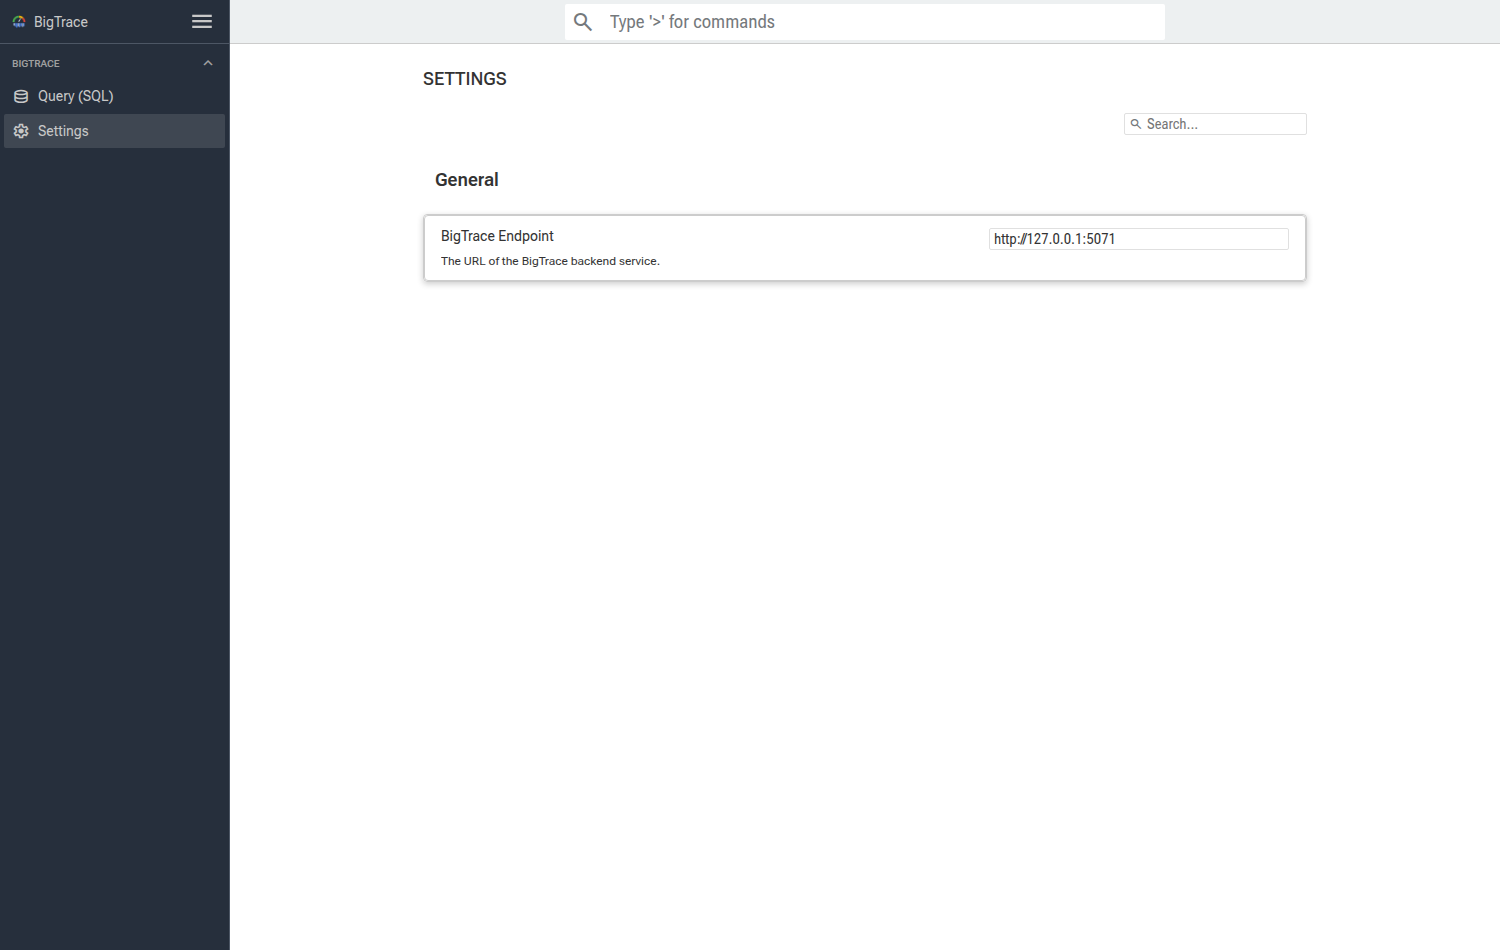
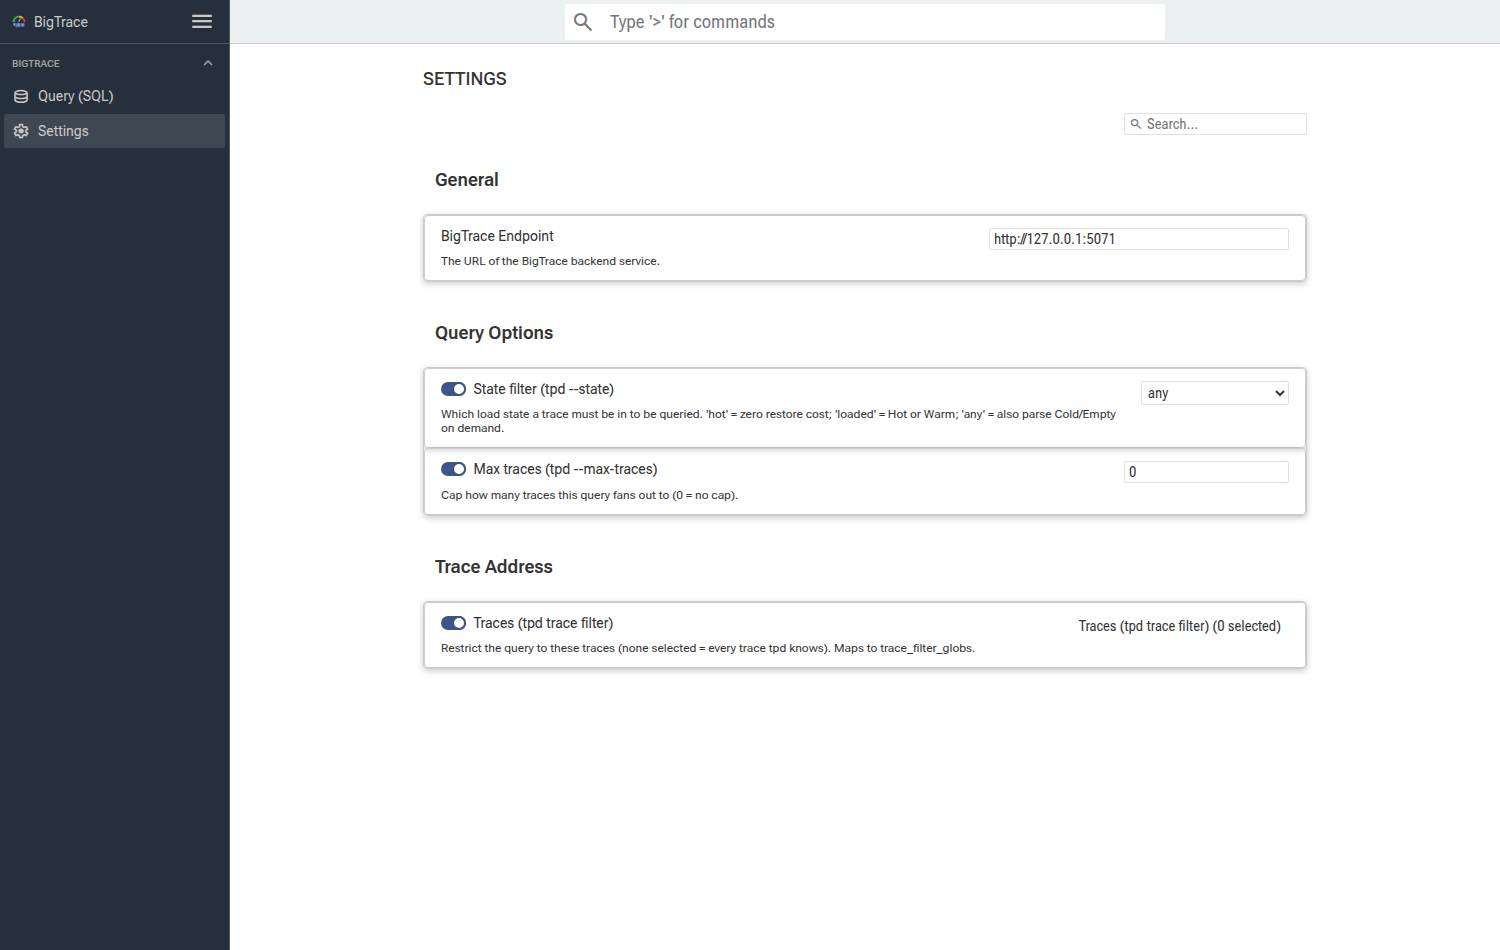
Fix history sidebar + expose tpd query config in the Settings page
- Omit null fields from /query_executions records: main's queryStore
  mergeInto does patch.error.length, so a null error threw "Cannot read
  properties of null" and the History sidebar failed to load.
- /bigtrace_execution_config + /trace_metadata_settings now return real
  settings (State filter, Max traces, and a live Traces multi-select)
  under BIGTRACE_QUERY_OPTIONS / TRACE_ADDRESS, so the Settings page is
  populated. Their values ride on each query and map 1:1 to tpd_cli query
  flags (--state, --max-traces, trace globs); run_query applies them.

diff --git a/adapter.py b/adapter.py
@@ -307,10 +307,22 @@ class TpdClient:
             lt.state_filter = state_filter
         return list(self._round_trip(msg).list_traces.traces)
 
-    def run_query(self, sql, trace_glob, max_rows=0):
-        """Run `sql` on traces matching `trace_glob`.
+    # tpd RunQueryRequest.StateFilter values, keyed by the tpd_cli `--state`
+    # spellings (any|loaded|hot).
+    _STATE_FILTER = {
+        "any": control_pb2.RunQueryRequest.STATE_FILTER_ANY,
+        "loaded": control_pb2.RunQueryRequest.STATE_FILTER_LOADED,
+        "alive": control_pb2.RunQueryRequest.STATE_FILTER_LOADED,
+        "hot": control_pb2.RunQueryRequest.STATE_FILTER_HOT,
+    }
 
-        Returns a dict keyed by trace_uuid -> {path, status, error, chunks}.
+    def run_query(self, sql, trace_glob="", max_rows=0, globs=None,
+                  state_filter=None, max_traces=0):
+        """Run `sql` against tpd, mirroring `tpd_cli query` knobs.
+
+        `globs` (list) or `trace_glob` (single) -> trace_filter_globs;
+        `state_filter` in {any,loaded,hot}; `max_rows`/`max_traces` cap the
+        fan-out. Returns a dict keyed by trace_uuid -> {path,status,error,chunks}.
         """
         s = self._connect()
         r_fd, w_fd = os.pipe()
@@ -318,10 +330,15 @@ class TpdClient:
             msg = control_pb2.ClientMsg()
             rq = msg.run_query
             rq.sql = sql
-            if trace_glob:
-                rq.trace_filter_globs.append(trace_glob)
+            for g in (globs if globs else ([trace_glob] if trace_glob else [])):
+                if g:
+                    rq.trace_filter_globs.append(g)
             if max_rows:
                 rq.max_rows = max_rows
+            if max_traces:
+                rq.max_traces = max_traces
+            if state_filter and state_filter in self._STATE_FILTER:
+                rq.state_filter = self._STATE_FILTER[state_filter]
             _sendmsg_with_fd(s, msg.SerializeToString(), w_fd)
             os.close(w_fd)  # tpd holds its own copy now
             w_fd = -1
@@ -448,7 +465,7 @@ def query_one_trace(client, addr, sql, max_rows):
     return out
 
 
-def execute_bigtrace_query(client, sql, limit):
+def execute_bigtrace_query(client, sql, limit, opts=None):
     """Run `sql` across every trace tpd knows and merge into one flat table.
 
     This is what the Bigtrace UI's /execute_bigtrace_query wants: a single
@@ -459,9 +476,20 @@ def execute_bigtrace_query(client, sql, limit):
 
     Returns (column_names, rows, errors): rows is a list of value-lists,
     errors is a list of (trace, message) for traces that failed.
+
+    `opts` (from the UI's settings) maps to tpd_cli query flags:
+      traces (list of basename globs) -> trace_filter_globs (empty = all),
+      state_filter in {any,loaded,hot}, max_traces -> fan-out cap.
+    `limit` caps total merged rows AND is passed to tpd as max_rows.
     """
-    # Empty glob => fan out across all registered traces.
-    _dispatched, results = client.run_query(sql, "", max_rows=0)
+    opts = opts or {}
+    _dispatched, results = client.run_query(
+        sql,
+        globs=opts.get("traces") or None,   # empty/None => all traces
+        max_rows=limit or 0,
+        state_filter=opts.get("state_filter"),
+        max_traces=opts.get("max_traces") or 0,
+    )
     column_names = None
     merged = []
     errors = []
@@ -527,8 +555,15 @@ class ExecStore:
 
 
 def _raw_exec(ex):
-    """RawQueryExecution view (drops the internal _columns/_rows)."""
-    return {k: v for k, v in ex.items() if not k.startswith("_")}
+    """RawQueryExecution view (drops internal _columns/_rows and nulls).
+
+    Null fields must be omitted, not sent as JSON null: the main UI's
+    queryStore.mergeInto does `patch.error.length` and a null `error` throws
+    "Cannot read properties of null". Absent => undefined => its `?? `
+    fallbacks handle it.
+    """
+    return {k: v for k, v in ex.items()
+            if not k.startswith("_") and v is not None}
 
 
 def make_execution(sql, columns, rows, errors, materialized):
@@ -550,6 +585,84 @@ def make_execution(sql, columns, rows, errors, materialized):
         "_columns": columns,
         "_rows": rows,
     }
+
+
+# ---- Bigtrace settings <-> tpd query knobs --------------------------------
+#
+# The Bigtrace settings page is populated from /bigtrace_execution_config
+# (query options) and /trace_metadata_settings (trace selector). The chosen
+# values come back as settings:[{setting_id,values,category}] on every
+# /execute_bigtrace_query and map 1:1 to `tpd_cli query` flags, so the UI's
+# Settings page configures how tpd runs the query.
+
+
+def exec_config_settings():
+    """Backend execution settings -> the Settings page (BIGTRACE_QUERY_OPTIONS)."""
+    return [
+        {
+            "id": "tpd_state_filter",
+            "name": "State filter (tpd --state)",
+            "description": "Which load state a trace must be in to be queried. "
+                           "'hot' = zero restore cost; 'loaded' = Hot or Warm; "
+                           "'any' = also parse Cold/Empty on demand.",
+            "category": "BIGTRACE_QUERY_OPTIONS",
+            "stringEnum": {
+                "defaultValue": "any",
+                "options": [
+                    {"value": "any", "label": "any"},
+                    {"value": "loaded", "label": "loaded (hot or warm)"},
+                    {"value": "hot", "label": "hot only"},
+                ],
+            },
+        },
+        {
+            "id": "tpd_max_traces",
+            "name": "Max traces (tpd --max-traces)",
+            "description": "Cap how many traces this query fans out to "
+                           "(0 = no cap).",
+            "category": "BIGTRACE_QUERY_OPTIONS",
+            "number": {"defaultValue": 0, "min": 0, "max": 0},
+        },
+    ]
+
+
+def trace_metadata_settings(client):
+    """Trace selector -> the Settings page (TRACE_ADDRESS), live from tpd."""
+    try:
+        traces = client.list_traces()
+    except TpdError:
+        traces = []
+    names = sorted({os.path.basename(t.trace_path)
+                    for t in traces if t.trace_path})
+    return [{
+        "id": "tpd_traces",
+        "name": "Traces (tpd trace filter)",
+        "description": "Restrict the query to these traces (none selected = "
+                       "every trace tpd knows). Maps to trace_filter_globs.",
+        "category": "TRACE_ADDRESS",
+        "multiSelect": {
+            "defaultValues": [],
+            "options": [{"value": n, "label": n} for n in names],
+        },
+    }]
+
+
+def parse_settings(settings):
+    """settings:[{setting_id,values,category}] -> opts dict for run_query."""
+    opts = {}
+    for s in settings or []:
+        sid = s.get("setting_id") or s.get("settingId")
+        vals = s.get("values") or []
+        if sid == "tpd_state_filter" and vals:
+            opts["state_filter"] = vals[0]
+        elif sid == "tpd_max_traces" and vals:
+            try:
+                opts["max_traces"] = int(float(vals[0]))
+            except (ValueError, TypeError):
+                pass
+        elif sid == "tpd_traces" and vals:
+            opts["traces"] = [v for v in vals if v]
+    return opts
 
 
 # MIME types for the static UI assets.
@@ -710,11 +823,12 @@ class Handler(BaseHTTPRequestHandler):
             if path == "/execute_bigtrace_query_async":
                 return self._handle_execute(materialized=True)
             if path == "/bigtrace_execution_config":
-                # No server-side execution filters to advertise.
-                return self._send_json(200, {"setting": []})
+                # tpd query options shown on the Settings page.
+                return self._send_json(200, {"setting": exec_config_settings()})
             if path == "/trace_metadata_settings":
-                # No metadata-derived filters either.
-                return self._send_json(200, {"setting": []})
+                # Live trace selector for the Settings page.
+                return self._send_json(
+                    200, {"setting": trace_metadata_settings(self.client)})
             if path == "/query":
                 return self._handle_query()
             if path.startswith("/query_executions/") and path.endswith(":cancel"):
@@ -748,8 +862,10 @@ class Handler(BaseHTTPRequestHandler):
         if not sql or not isinstance(sql, str):
             return self._send_json(400, {"error": "field 'perfetto_sql' required"})
         limit = int(req.get("limit", 0) or 0)
+        opts = parse_settings(req.get("settings"))
         try:
-            columns, rows, errors = execute_bigtrace_query(self.client, sql, limit)
+            columns, rows, errors = execute_bigtrace_query(
+                self.client, sql, limit, opts)
         except TpdError as e:
             return self._send_json(400, {"detail": str(e)})
         if not rows and errors:

diff --git a/README.md b/README.md
@@ -41,13 +41,33 @@ one row per trace, routed UI → adapter → tpd.
 
 | UI request                          | adapter behaviour                                              |
 | ----------------------------------- | ------------------------------------------------------------- |
-| `POST /execute_bigtrace_query` `{limit, perfetto_sql, settings}` | run the SQL across every tpd trace, merge into one table, return `{columnNames, rows:[{values}]}` with a leading `_trace` provenance column |
-| `POST /bigtrace_execution_config`   | `{setting: []}` (no server-side execution filters)            |
-| `POST /trace_metadata_settings`     | `{setting: []}` (no metadata-derived filters)                 |
+| `POST /execute_bigtrace_query[_async]` `{limit, perfetto_sql, settings}` | run the SQL across the selected tpd traces, merge into one table, return `{queryUuid, columnNames, rows:[{values}]}` with a leading `_trace` provenance column |
+| `POST /bigtrace_execution_config`   | query-option settings (state filter, max traces)              |
+| `POST /trace_metadata_settings`     | live trace selector (the traces tpd currently knows)          |
+| `GET  /query_executions`            | history list (so the sidebar + sync status work)              |
+| `GET  /query_executions/{uuid}[:status]` / `:fetch_results` | execution status / paged results |
+| `POST /query_executions/{uuid}:cancel`, `DELETE /query_executions/{uuid}` | cancel / forget |
 | `GET  /<asset>`                     | static file from `--ui-dist` (bigtrace.html, bundle, css, …)  |
 
 CORS echoes the request `Origin` and sets `Access-Control-Allow-Credentials`
 (the UI fetches with `credentials:'include'`, which forbids a `*` origin).
+
+The newer (upstream/main) UI runs every query as a tracked *execution* and
+learns it reached `SUCCESS` via the `/query_executions` API, so the adapter
+implements that API over an in-memory store (it executes synchronously
+against tpd, then serves status/results from the stored result).
+
+### Configuring tpd from the Settings page
+
+The Settings page is populated from the two config endpoints, and the chosen
+values ride along on every query and map 1:1 to `tpd_cli query` flags:
+
+| Setting (Settings page)        | tpd query knob                         |
+| ------------------------------ | -------------------------------------- |
+| State filter                   | `--state` (any / loaded / hot)         |
+| Max traces                     | `--max-traces`                         |
+| Traces (multi-select)          | trace filter globs (empty = all)       |
+| Limit (query toolbar)          | `--max-rows`                           |
 
 ## Also: adapter-native + per-trace API
 
